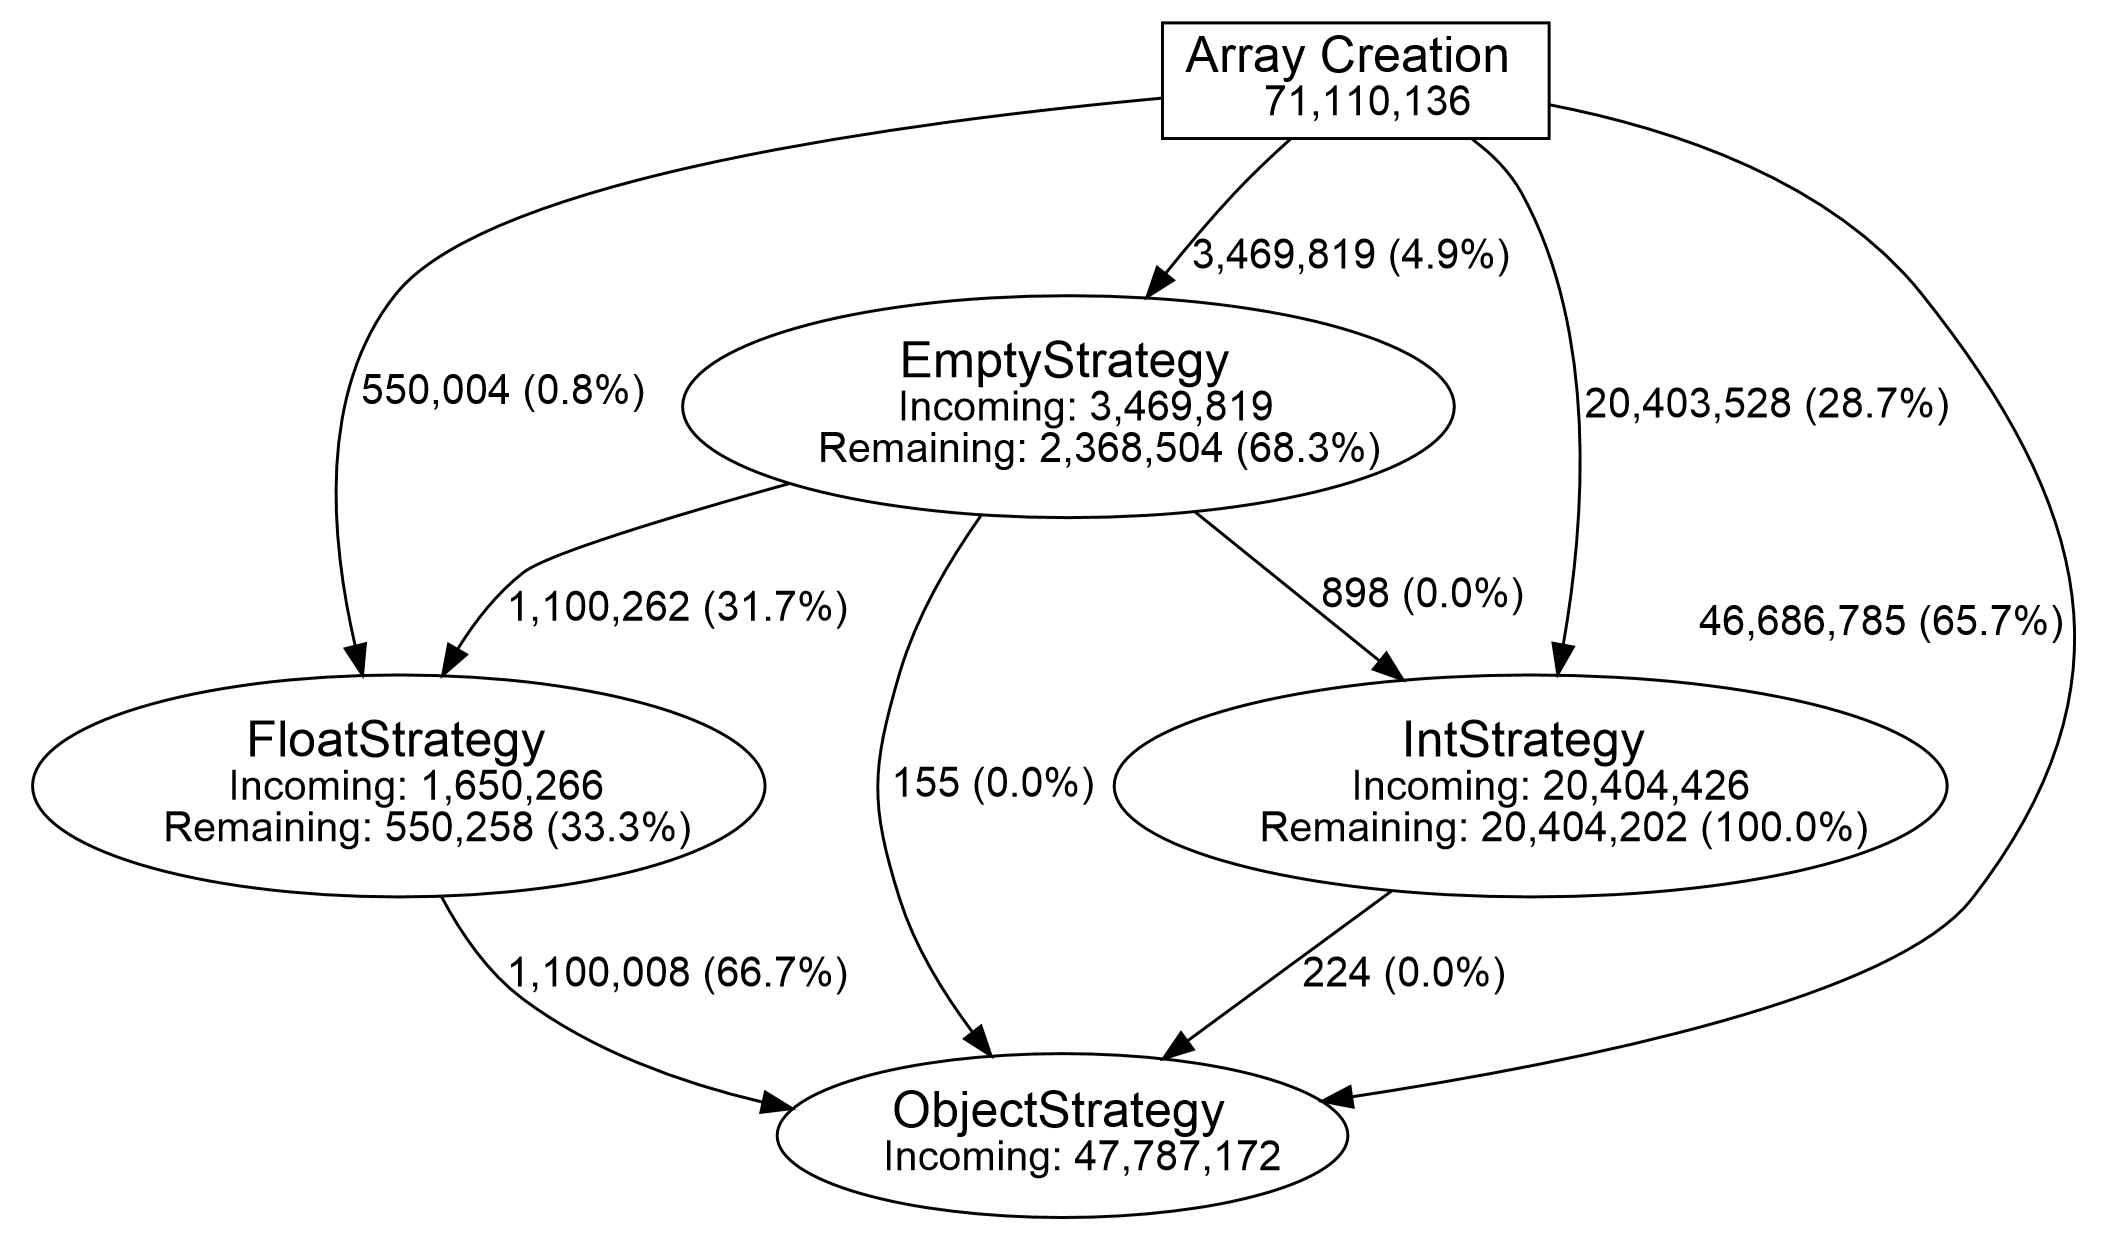
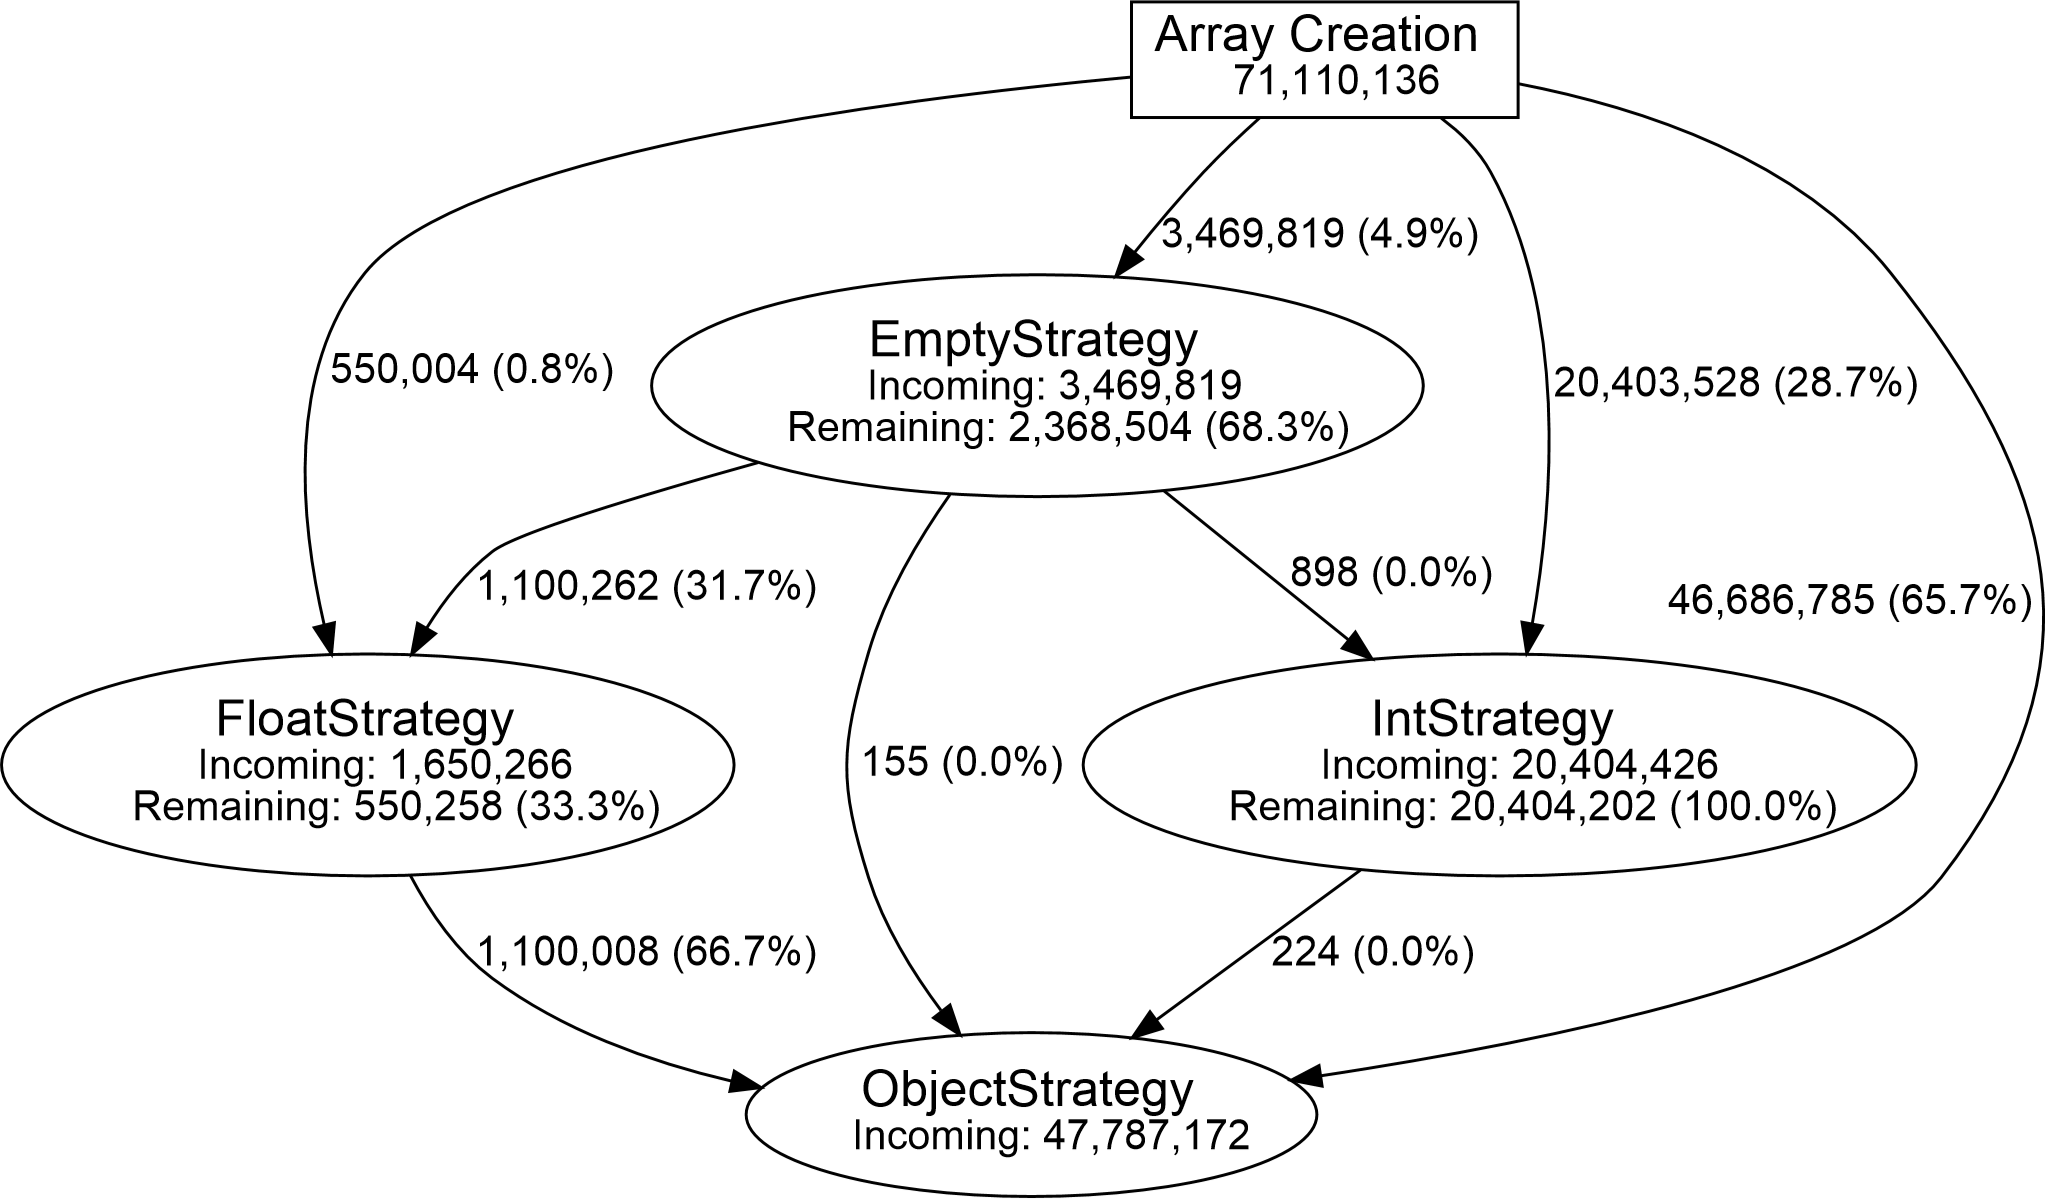
trim images

diff --git a/rstrategies.tex b/rstrategies.tex
@@ -7,7 +7,7 @@
 %
 \PassOptionsToPackage{final}{graphics}
 \PassOptionsToPackage{unicode,pdfencoding=auto}{hyperref}
-\documentclass[preprint,english]{sigplanconf}
+\documentclass[english,10pt,draft]{sigplanconf}
 
 \nocaptionrule % chktex 1
 \usepackage[utf8]{inputenx}
@@ -57,7 +57,7 @@
 \usepackage[final]{listings}
 \lstset{basicstyle=\footnotesize\ttfamily,columns=fullflexime}
 
-\usepackage[pass,letterpaper]{geometry}
+\usepackage[pass,letterpaper,showframe]{geometry}
 \usepackage[%
   final, pdfpagelabels=false,
   hidelinks, %
@@ -92,6 +92,7 @@
 \exclusivelicense
 \titlebanner{Submitted to DLS'15}        % These are ignored unless
 \preprintfooter{Language-independent Storage Strategies for Tracing-JIT-based Virtual Machines}   % 'preprint' option specified.
+\toappear{}
 
 \title{Language-independent Storage Strategies for Tracing-JIT-based Virtual Machines}
 %\subtitle{Subtitle Text, if any}
@@ -922,7 +923,8 @@ bottom labeled \texttt{Other} summarizes a few rarely used strategies which are
 special to RSqueak.
 
 \begin{figure}
-\centering
+% \centering
+\hskip-0.15em
 \includegraphics[width=0.49\textwidth]{topaz-transitions}
 \caption{Strategy transitions of the Topaz VM executing benchmarks}
 \label{fig:transitiongraph-topaz}
